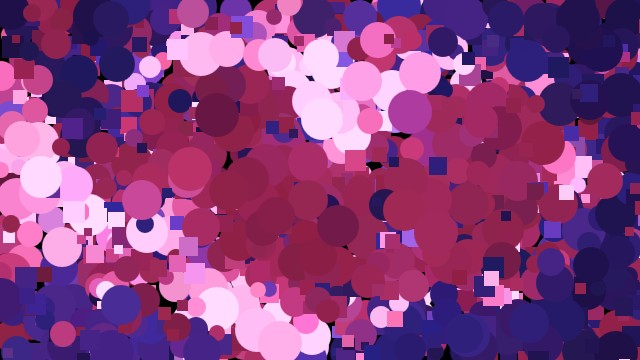
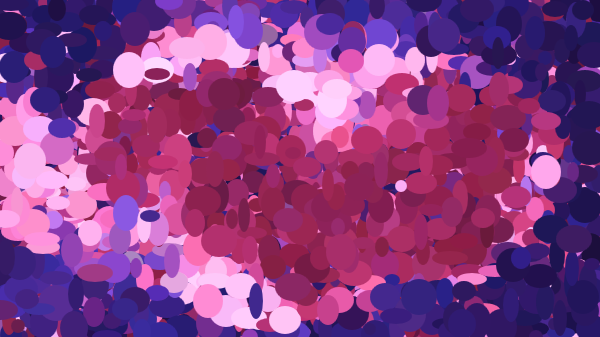
fix image lib + optimisation

diff --git a/js/genetic/genetic.js b/js/genetic/genetic.js
@@ -37,12 +37,14 @@ class Genetic {
         }, options)
 
         this.genomOptions = Object.assign({}, {
-            minSize: 2,
-            maxSize: 4,
+            minWidth: 4,
+            maxWidth: 16,
+            minHeight: 4,
+            maxHeight: 16,
             onlyOneShape: false,
             oneShape: 0,
             onlySourceColors: true,
-            mutationRatio: 700
+            mutationRatio: 500
         }, genomOptions)
 
         if(this.genomOptions.onlySourceColors){
@@ -62,8 +64,8 @@ class Genetic {
             this.generation = [...this.generation, phenotype]
         }
 
-        for (const phenotype of this.generation) {
-            phenotype.similarityRatio = similarityBtwImageData(this.minifyModelData, scaleImageData(phenotype.generate(), this.ratio), true)
+        for (let i = 0; i < this.options.phenotypePerGeneration; i++) {
+            this.generation[i].similarityRatio = similarityBtwImageData(this.minifyModelData, scaleImageData(this.generation[i].generate(), this.ratio))
         }
 
         this.generation.sort((a, b) =>
@@ -71,7 +73,7 @@ class Genetic {
 
         window.setInterval(() => {
             this.nextGeneration();
-        }, 100)
+        }, 1)
     }
 
     /**
@@ -97,10 +99,13 @@ class Genetic {
         let nextGeneration = [];
         this.generationCounter++;
 
-        for (let i = 0; i < 3 * this.options.phenotypePerGeneration / 4; i++) {
+        for (let i = 0; i < 1 * this.options.phenotypePerGeneration / 10; i++) {
+            nextGeneration = [...nextGeneration, this.generation[this.options.phenotypePerGeneration - 1 - i]]
+        }
+        for (let i = 1 * this.options.phenotypePerGeneration / 10; i < 9 * this.options.phenotypePerGeneration / 10; i++) {
             nextGeneration = [...nextGeneration, this.makeChildren()]
         }
-        for (let i = 3 * this.options.phenotypePerGeneration / 4; i < this.options.phenotypePerGeneration; i++) {
+        for (let i = 9 * this.options.phenotypePerGeneration / 10; i < this.options.phenotypePerGeneration; i++) {
             let phenotype = new Phenotype(this.modelData, this.options.genotypePerPhenotype, this.genomOptions);
             phenotype.random();
             nextGeneration = [...nextGeneration, phenotype]
@@ -108,8 +113,8 @@ class Genetic {
 
         this.generation = nextGeneration;
  
-        for (const phenotype of this.generation) {
-            phenotype.similarityRatio = similarityBtwImageData(this.minifyModelData, scaleImageData(phenotype.generate(), this.ratio), true)
+        for (let i = 1 * this.options.phenotypePerGeneration / 10; i < this.options.phenotypePerGeneration; i++) {
+            this.generation[i].similarityRatio = similarityBtwImageData(this.minifyModelData, scaleImageData(this.generation[i].generate(), this.ratio))
         }
 
         this.generation.sort((a, b) =>
@@ -148,11 +153,12 @@ class Genetic {
      */
     rankSelection() {
         var total = 0;
-        for (let i = 0; i < this.options.phenotypePerGeneration; i++) total += i * i;
+        var advantage = 2;
+        for (let i = 0; i < this.options.phenotypePerGeneration; i++) total += i * advantage;
         var rand = randBtw(0, total)
         total = 0
         for (let i = 0; i < this.options.phenotypePerGeneration; i++) {
-            total += i * i;
+            total += i * advantage;
             if (rand <= total) {
                 return i;
             }

diff --git a/js/genetic/genotype.js b/js/genetic/genotype.js
@@ -26,28 +26,21 @@ class Genotype{
      * @param {Genotype} gen The descendent of this genotype
      */
     inherite(gen){
-        if(randBtw(0, this.genomOptions.mutationRatio) != 0) this.x = gen.x
-        else this.x = randBtw(0, this.modelData.width)
-        if(randBtw(0, this.genomOptions.mutationRatio) != 0) this.y = gen.y
-        else this.y = randBtw(0, this.modelData.height)
-        if(randBtw(0, this.genomOptions.mutationRatio) != 0) this.size = gen.size;
-        else this.size = randBtw(this.genomOptions.minSize, this.genomOptions.maxSize)
-        
-        if(this.genomOptions.onlySourceColors){
-            if(randBtw(0, this.genomOptions.mutationRatio) != 0) this.color = gen.color;
-            else this.color = this.genomOptions.sourceColors[randBtw(0, this.genomOptions.sourceColors.length - 1)]
+        if(randBtw(0, this.genomOptions.mutationRatio) != 0){
+            this.x = gen.x
+            this.y = gen.y
+            this.width = gen.width;
+            this.height = gen.height;
+            this.color = gen.color;
+
+            if(this.genomOptions.onlyOneShape){
+                this.shape = this.genomOptions.oneShape;
+            }else{
+                this.shape = gen.shape;
+            }  
         }else{
-            if(randBtw(0, this.genomOptions.mutationRatio) != 0) this.color = gen.color;
-            else this.color = [randBtw(0, 255), randBtw(0, 255), randBtw(0, 255)]
+            this.random()
         }
-
-
-        if(this.genomOptions.onlyOneShape){
-            this.shape = this.genomOptions.oneShape;
-        }else{
-            if(randBtw(0, this.genomOptions.mutationRatio) != 0) this.shape = gen.shape;
-            else this.shape = randBtw(0, 1)
-        }  
     }
 
     /**
@@ -56,8 +49,9 @@ class Genotype{
     random(){
         this.x = randBtw(0, this.modelData.width)
         this.y = randBtw(0, this.modelData.height)
-        this.size = randBtw(this.genomOptions.minSize, this.genomOptions.maxSize)
-        
+        this.width = randBtw(this.genomOptions.minWidth, this.genomOptions.maxWidth)
+        this.height = randBtw(this.genomOptions.minHeight, this.genomOptions.maxHeight)
+
         if(this.genomOptions.onlySourceColors){
             this.color = this.genomOptions.sourceColors[randBtw(0, this.genomOptions.sourceColors.length - 1)]
         }else{

diff --git a/js/geneticart.js b/js/geneticart.js
@@ -11,7 +11,7 @@
 function loadImage(url, callback) {
     var img = new Image();
     img.onload = () => {
-        img = maxSizeImage(img, 500);
+        img = maxSizeImage(img, 600);
         let canvas = document.querySelector(".genetic .model canvas");
         let ctx = canvas.getContext('2d');
 
@@ -25,14 +25,16 @@ function loadImage(url, callback) {
     img.crossOrigin = "Anonymous";
 }
 
-loadImage("./examples/heart.jpg", (pixelData) => {
+loadImage("./examples/rajang.jpg", (pixelData) => {
     new Genetic(pixelData, {
-        phenotypePerGeneration: 50,
-        genotypePerPhenotype: 1600
+        phenotypePerGeneration: 20,
+        genotypePerPhenotype: 5000
     }, {
-        minSize: 10,
-        maxSize: 20,
+        minWidth: 6,
+        maxWidth: 12,
+        minHeight: 6,
+        maxHeight: 12,
         onlyOneShape: true,
-        oneShape: 1
+		oneShape: 1
     })
 })

diff --git a/js/utils/image.js b/js/utils/image.js
@@ -188,10 +188,9 @@ function similarityBtwImageData(left, right, strict = false, strictThreshold = 5
         for (let y = 0; y < left.height; y++) {
             pixelLeft = getPixel(left , x, y);
             pixelRight = getPixel(right, x, y);
-            difference = Math.abs(
-                pixelLeft[0] - pixelRight[0] + 
-                pixelLeft[1] - pixelRight[1] + 
-                pixelLeft[2] - pixelRight[2]) / 3
+            difference = (Math.abs(pixelLeft[0] - pixelRight[0]) + 
+                          Math.abs(pixelLeft[1] - pixelRight[1]) + 
+                          Math.abs(pixelLeft[2] - pixelRight[2])) / 3
             if(strict){
                 if(difference < strictThreshold){
                     similarityResult += 256 - (difference * 256) / strictThreshold

diff --git a/js/genetic/phenotype.js b/js/genetic/phenotype.js
@@ -73,14 +73,14 @@
         ctx.fill();
 
         for (const genotype of this.adn) {
-            const { x, y, size, color, shape } = genotype;
+            const { x, y, width, height, color, shape } = genotype;
             ctx.beginPath();
             switch (shape) {
                 case 0:
-                    ctx.rect(x + size/2, y + size/2, size, size);
+                    ctx.rect(x - width/2, y - height/2, width, height);
                     break;
                 case 1:
-                    ctx.arc(x, y, size/2, 0, 2 * Math.PI);
+                    ctx.ellipse(x, y, width, height, 0, 0, 2 * Math.PI);
                     break;
             }
             ctx.fillStyle = `rgb(${color[0]},${color[1]},${color[2]})`;

diff --git a/README.md b/README.md
@@ -1,25 +1,24 @@
 # genetic-art
 This is an application of a genetic algorithm in javascript
 
-This idea come from that video : https://www.youtube.com/watch?v=8ShmIgaSejY 
 
-Version : 0.0.2
+This idea come from that video : https://www.youtube.com/watch?v=8ShmIgaSejY 
 
 ## Examples
 
-Duration of the following process : 30 minutes (version 0.0.1)
+Duration of the following process : 30 minutes
 ![Image of example](https://github.com/dylandoamaral/genetic-art/blob/master/examples/heart.jpg)
 ![Image of example](https://github.com/dylandoamaral/genetic-art/blob/master/examples/heart_result.jpg)
 
-Duration of the following process : 3 hours and 10 minutes (version 0.0.1)
+Duration of the following process : 3 hours and 10 minutes
 ![Image of example](https://github.com/dylandoamaral/genetic-art/blob/master/examples/animal.jpg)
 ![Image of result](https://github.com/dylandoamaral/genetic-art/blob/master/examples/animal_result.jpg)
 
 ## To do
 
  - Create a CSS environment adding button to export result, to start and stop the algorithm
- - ~~Try to improve the code~~
- - ~~Simularity function and pixel data not optimized~~
+ - Try to improve the code
+ - Simularity function and pixel data not optimized
 
 ## To fix
 
